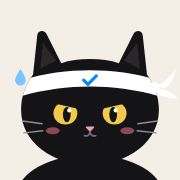
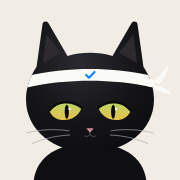
되돌리기 화살표 오른쪽으로, 진행도 색(오늘 주황·이번 달 파랑), 고양이 아이콘 세련되게
Claude-Session: https://claude.ai/code/session_01HmQmh6ZtYq44gPtQXMugTF

diff --git a/index.html b/index.html
@@ -21,7 +21,7 @@
 <meta name="twitter:card" content="summary_large_image">
 <meta name="twitter:image" content="https://halggo-6e9d.vercel.app/og.png">
 <link rel="manifest" href="/manifest.webmanifest">
[2 lines of base64/hex data omitted]
 <link rel="icon" href="/icon-512.png" type="image/png" sizes="512x512">
 <link rel="apple-touch-icon" href="/apple-touch-icon.png">
 <link rel="preconnect" href="https://fonts.googleapis.com">
@@ -202,7 +202,7 @@ input::placeholder { color: var(--fg-3); }
 .card .title svg { flex: none; }
 .cat { min-width: 0; display: flex; align-items: center; gap: 6px; font-size: 12px; color: var(--fg-2); }
 .arrow { width: 44px; height: 44px; border-radius: 12px; color: var(--fg-2); display: flex; align-items: center; justify-content: center; }
-.card.has-back { padding-left: 0; }
+.card.has-back { padding-right: 0; }
 .arrow.back { flex: none; width: 40px; color: var(--fg-3); }
 .arrow:hover { background: var(--surface-3); }
 .card.edit { display: flex; flex-direction: column; align-items: stretch; }
@@ -858,8 +858,8 @@ function progressView() {
   const t = today(), mk = t.slice(0, 7), yk = t.slice(0, 4);
   const now = new Date();
   const items = [
-    { label: L.today, sub: F_MD.format(now), color: 'var(--blue-text)', s: stat(k => k === t) },
-    { label: L.thisMonth, sub: F_M.format(now), color: 'var(--orange)', s: stat(k => k.slice(0, 7) === mk) }
+    { label: L.today, sub: F_MD.format(now), color: 'var(--orange)', s: stat(k => k === t) },
+    { label: L.thisMonth, sub: F_M.format(now), color: 'var(--blue-text)', s: stat(k => k.slice(0, 7) === mk) }
   ];
   if (S.view === 'all') items.push({ label: L.thisYear, sub: F_Y.format(now), color: 'var(--green)', s: stat(k => k.slice(0, 4) === yk) });
   return `<section class="progress cols-${items.length}" aria-label="${L.progress}">${items.map(p => `
@@ -950,11 +950,11 @@ function card(t, ci) {
     ${next ? `<div class="swipe-move to-${next}" aria-hidden="true">${ICON.rightBig}<span>${COLS[ci + 1].label}</span></div>` : ''}
     <button class="swipe-del" data-act="del" data-id="${id}" tabindex="-1" aria-label="${L.del}: ${title}">${ICON.trashBig}<span>${L.del}</span></button>
     <article class="card ${prev ? 'has-back' : ''}" data-swipe data-id="${id}" data-next="${next || ''}">
-      ${prev ? `<button class="arrow back" data-act="move" data-id="${id}" data-to="${prev}" aria-label="${L.backTo(title, COLS[ci - 1].label)}">${ICON.leftBig}</button>` : ''}
       <div class="card-main">
         <button class="title ${done ? 'done' : ''}" data-act="edit" data-id="${id}" aria-label="${L.editAria(title)}">${title}${done ? '' : ICON.pencil}</button>
         <span class="cat"><i style="background:${c.color}"></i>${c.label} · ${relLabel(t.date)}${t.time ? ` <span class="num">${esc(t.time)}</span>` : ''}</span>
       </div>
+      ${prev ? `<button class="arrow back" data-act="move" data-id="${id}" data-to="${prev}" aria-label="${L.backTo(title, COLS[ci - 1].label)}">${ICON.leftBig}</button>` : ''}
     </article>
   </div>`;
 }

diff --git a/src/app.js b/src/app.js
@@ -560,8 +560,8 @@ function progressView() {
   const t = today(), mk = t.slice(0, 7), yk = t.slice(0, 4);
   const now = new Date();
   const items = [
-    { label: L.today, sub: F_MD.format(now), color: 'var(--blue-text)', s: stat(k => k === t) },
-    { label: L.thisMonth, sub: F_M.format(now), color: 'var(--orange)', s: stat(k => k.slice(0, 7) === mk) }
+    { label: L.today, sub: F_MD.format(now), color: 'var(--orange)', s: stat(k => k === t) },
+    { label: L.thisMonth, sub: F_M.format(now), color: 'var(--blue-text)', s: stat(k => k.slice(0, 7) === mk) }
   ];
   if (S.view === 'all') items.push({ label: L.thisYear, sub: F_Y.format(now), color: 'var(--green)', s: stat(k => k.slice(0, 4) === yk) });
   return `<section class="progress cols-${items.length}" aria-label="${L.progress}">${items.map(p => `
@@ -652,11 +652,11 @@ function card(t, ci) {
     ${next ? `<div class="swipe-move to-${next}" aria-hidden="true">${ICON.rightBig}<span>${COLS[ci + 1].label}</span></div>` : ''}
     <button class="swipe-del" data-act="del" data-id="${id}" tabindex="-1" aria-label="${L.del}: ${title}">${ICON.trashBig}<span>${L.del}</span></button>
     <article class="card ${prev ? 'has-back' : ''}" data-swipe data-id="${id}" data-next="${next || ''}">
-      ${prev ? `<button class="arrow back" data-act="move" data-id="${id}" data-to="${prev}" aria-label="${L.backTo(title, COLS[ci - 1].label)}">${ICON.leftBig}</button>` : ''}
       <div class="card-main">
         <button class="title ${done ? 'done' : ''}" data-act="edit" data-id="${id}" aria-label="${L.editAria(title)}">${title}${done ? '' : ICON.pencil}</button>
         <span class="cat"><i style="background:${c.color}"></i>${c.label} · ${relLabel(t.date)}${t.time ? ` <span class="num">${esc(t.time)}</span>` : ''}</span>
       </div>
+      ${prev ? `<button class="arrow back" data-act="move" data-id="${id}" data-to="${prev}" aria-label="${L.backTo(title, COLS[ci - 1].label)}">${ICON.leftBig}</button>` : ''}
     </article>
   </div>`;
 }

diff --git a/src/style.css b/src/style.css
@@ -172,7 +172,7 @@ input::placeholder { color: var(--fg-3); }
 .card .title svg { flex: none; }
 .cat { min-width: 0; display: flex; align-items: center; gap: 6px; font-size: 12px; color: var(--fg-2); }
 .arrow { width: 44px; height: 44px; border-radius: 12px; color: var(--fg-2); display: flex; align-items: center; justify-content: center; }
-.card.has-back { padding-left: 0; }
+.card.has-back { padding-right: 0; }
 .arrow.back { flex: none; width: 40px; color: var(--fg-3); }
 .arrow:hover { background: var(--surface-3); }
 .card.edit { display: flex; flex-direction: column; align-items: stretch; }

diff --git a/CLAUDE.md b/CLAUDE.md
@@ -27,7 +27,8 @@
 3. 진행도 원형 그래프: 날짜 보기 = 오늘·이번 달, **"전체" 보기에서만 올해** 추가.
    상단 보기 버튼: 기본 **[오늘][전체]**, 오늘이 아닌 날을 고르면 가운데 **[선택한 날]** 이 생김. 선택된 버튼은 **파란색**.
 4. 칸반 3칸: 할 일 / 수행 중 / 완료. 휴대폰 탭은 선택 시 **파란색**, 탭 줄을 **좌우로 밀어** 바꿀 수 있음(오른쪽=다음). **카드를 오른쪽으로 밀면 다음 칸**으로(할 일→수행 중→완료).
-   수행 중·완료 카드는 **왼쪽에 회색 ‹ 화살표**로 이전 칸으로 되돌림. 오른쪽 › 화살표는 없음.
+   수행 중·완료 카드는 **오른쪽에 회색 ‹ 화살표**로 이전 칸으로 되돌림. › 화살표는 없음.
+   진행도 그래프 색: 오늘 = 주황(노랑), 이번 달 = 파랑, 올해 = 초록.
 5. 삭제: 카드를 **왼쪽으로 밀면** 빨간 삭제 버튼, 끝까지 밀면 즉시 삭제, 5초간 되돌리기. 수정 화면에도 삭제 버튼.
 6. 카테고리 8종, 휴대폰에서 **4개씩 두 줄**(PC는 자동 줄바꿈). **많이 쓰는 순서**: 업무 · 개인 · 집안일 · 쇼핑 / 운동·건강 · 약속 · 공부 · 금융.
    저장 id는 work · life · home · shopping · health · social · study · money (**id는 절대 바꾸지 말 것**, 기존 데이터 깨짐). 예전 "재테크"는 "금융"으로 이름만 바꿈.
@@ -42,7 +43,7 @@
 13. **국가별 공휴일·기념일**: 기기 언어로 나라 결정(ko→한국, ja→일본, zh→중국, en-US→미국, 그 외 없음). `app.js`의 `buildHolidays`.
     공휴일은 빨간색, 기념일(어버이날 등)은 이름만. 고른 날의 이름이 제목 옆 날짜 뒤에 표시. 음력 명절은 브라우저 내장 음력(Intl) 사용, 대체공휴일 계산 포함.
     선거일·임시공휴일·중국 调休처럼 매년 정부가 따로 정하는 날은 계산 불가 → 필요하면 `buildHolidays`에 직접 추가.
-14. **아이콘**: 이마에 흰 머리띠(파란 체크)를 두른 검은 고양이, 크림색 배경. 원본 `src/icon.svg`, 링크 미리보기 `src/og.png`(1200×630).
+14. **아이콘**: 이마에 흰 머리띠(파란 체크)를 두른 검은 고양이, 크림색 배경. 귀여움보다 **예쁘고 세련되게**(아몬드형 녹금색 눈, 볼터치·땀방울 없음). 원본 `src/icon.svg`, 링크 미리보기 `src/og.png`(1200×630).
 12. **기기 언어대로 표시**: 한국어·영어·일본어·중국어(그 외는 영어). 문구는 `app.js` 맨 위 `I18N` 사전에 있음.
     새 문구를 넣을 때는 네 언어 모두 추가. 날짜·요일은 `Intl`로 자동 변환. 확인용: 주소 끝에 `?lang=ja` 등.
 
